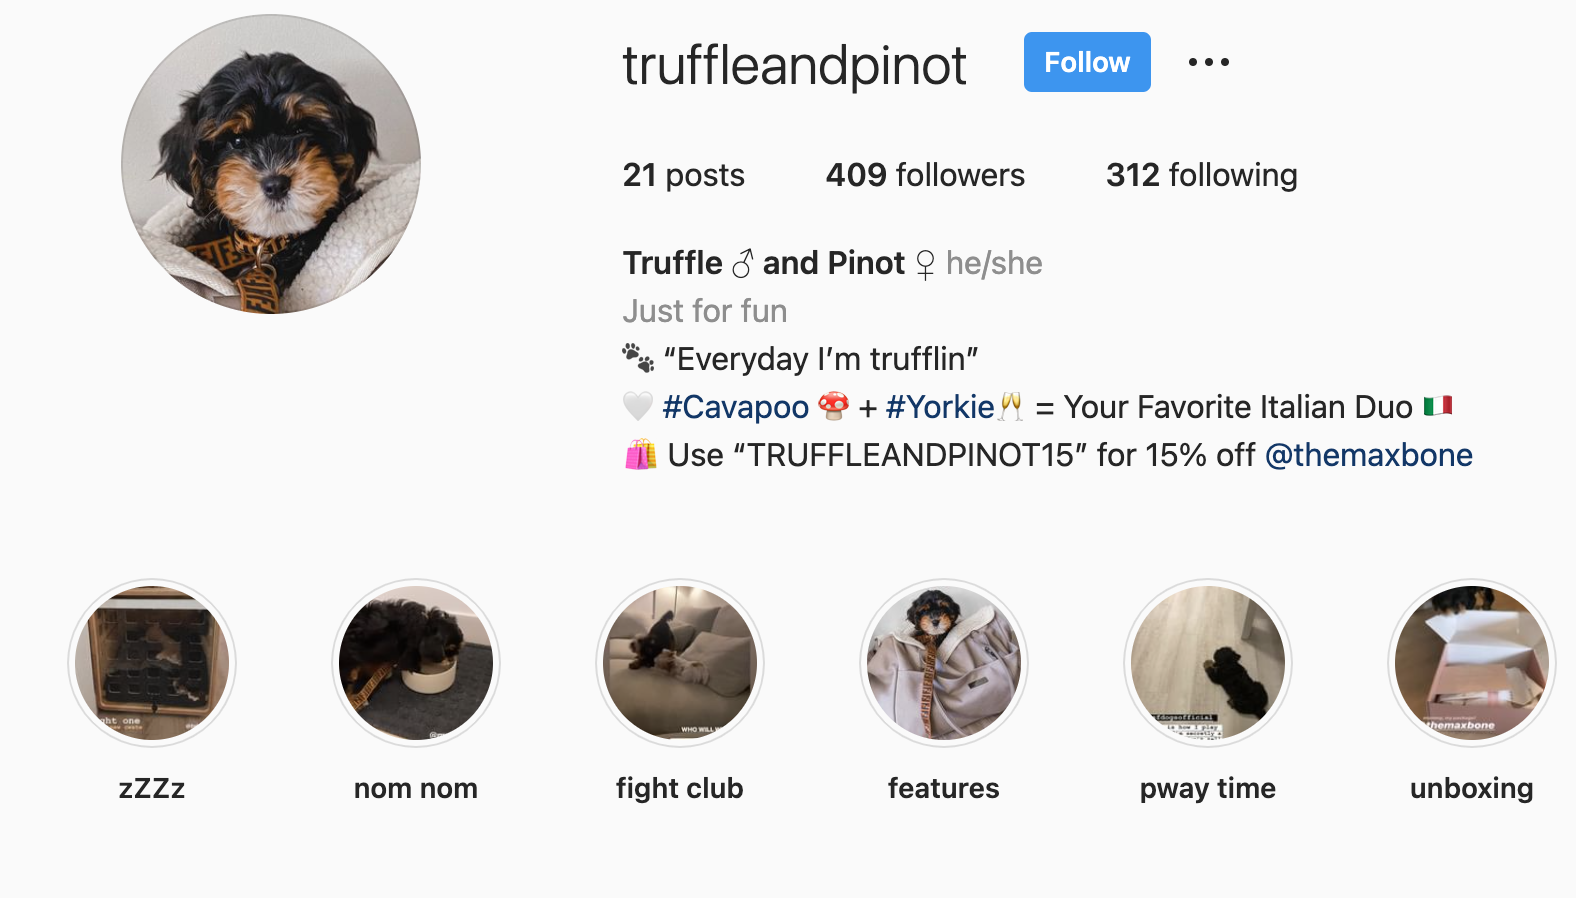
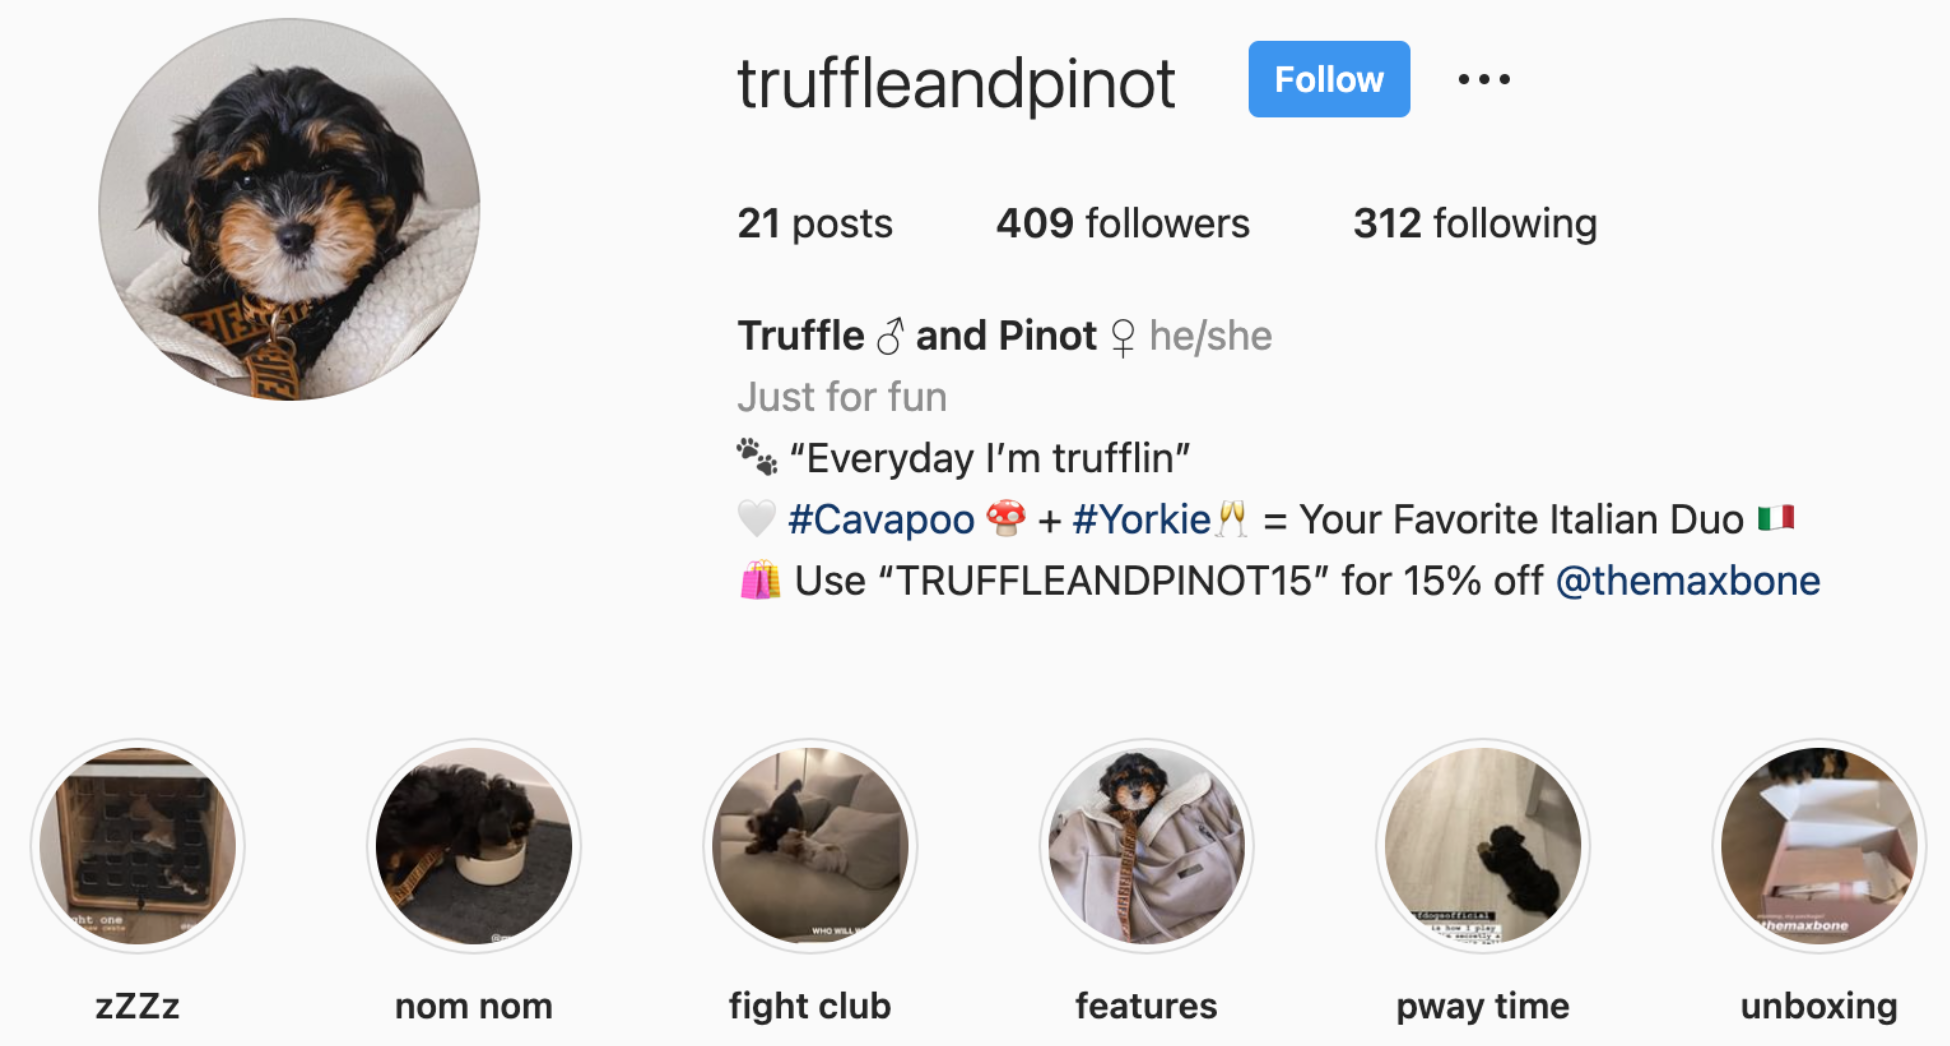
Adjusting media query settings for better mobile compatibility

diff --git a/src/app/bio/bio.component.css b/src/app/bio/bio.component.css
@@ -12,7 +12,7 @@ h1 {
   grid-template-rows: 20px 0px;
   grid-gap: 20px;
   margin-top: 40px;
-  margin-bottom:40px;
+  margin-bottom:35px;
   margin-left:25px;
   margin-right:55px;
   max-width: 95%;
@@ -140,7 +140,7 @@ h1:after,h1:before {
 
 /*Timeline Images: set different border colors and sizes for each*/
 .timeline img {
-  width: 230px;
+  width: 220px;
   height: 220px;
   border-radius: 50%;
   margin-bottom: 15px;
@@ -150,21 +150,17 @@ h1:after,h1:before {
 }
 .timeline #img2 {
   border: 4px solid hotpink;
-  width: 250px;
-  height: 260px;
+  height: 230px;
 }
 .timeline #img3 {
   border: 4px solid lightblue;
-  width: 210px;
-  height: 220px;
+  height: 230px;
 }
 .timeline #img4 {
   border: 4px solid #ffd670;
 }
 .timeline #img5 {
   border: 4px solid lightgreen;
-  width: 210px;
-  height: 220px;
 }
 
 .Yearly-timeline .timeline-content:hover{ text-decoration: none; }
@@ -227,7 +223,7 @@ h1:after,h1:before {
   background: lightgreen;
 }
 
-@media screen and (max-width:767px){
+@media screen and (max-width:700px){
   .Yearly-timeline .timeline{
     width: 100%;
     padding: 30px 0 0 30px;

diff --git a/src/app/social/social.component.html b/src/app/social/social.component.html
@@ -2,15 +2,13 @@
 <html>
 
 <div class="header">
-  <h2>Follow my Sister and me on
-    <a target="_blank" href="https://www.instagram.com/truffleandpinot/?igshid=YmMyMTA2M2Y=&fbclid=IwAR3P6vzQBvtjW0wJAFwjoh-6vBi18jZyCZZ0L8beD9BWSTUznMoJm35C6a8">Instagram</a>!
+  <h2>Follow me on
+    <a target="_blank" href="https://www.instagram.com/truffleandpinot/?igshid=YmMyMTA2M2Y=&fbclid=IwAR3P6vzQBvtjW0wJAFwjoh-6vBi18jZyCZZ0L8beD9BWSTUznMoJm35C6a8">Instagram!</a>
   </h2>
 </div>
 
-<div id = "pics" class="clearfix">
-  <div class="img-container">
-    <img id = "img1" src="assets/images/ig.png" width="600" height="320">
-  </div>
+<div>
+  <img id = "img1" src="assets/images/ig.png">
 </div>
 <html>
 

diff --git a/src/app/social/social.component.css b/src/app/social/social.component.css
@@ -1,0 +1,40 @@
+
+/* Header */
+h2 {
+  font-family:sans-serif;
+  font-weight:100;
+  font-weight: bold;
+  color: black;
+  grid-template-columns: 1fr auto 1fr;
+  grid-template-rows: 20px 0px;
+  grid-gap: 20px;
+  font-size: 30px;
+  margin-top: 30px;
+  margin-bottom: 30px;
+  margin-left:25px;
+  margin-right:55px;
+  max-width: 95%;
+}
+
+/* Image */
+#img1 {
+  margin-left:10px;
+  border: 2px solid lightgrey;
+  width: 740px;
+  height: 400px;
+  margin-left:20px;
+}
+
+/* Media settings */
+@media screen and (max-width:600px){
+  h2 {
+    font-size: 20px;
+  }
+  #img1 {
+    margin-left:10px;
+    border: 2px solid lightgrey;
+    width: 400px;
+    height: 200px;
+  }
+}
+

diff --git a/src/app/bio/bio.component.html b/src/app/bio/bio.component.html
@@ -2,7 +2,7 @@
 <html>
 
 <div>
-  <h1>Welcome to Truffle's World</h1>
+  <h1>Truffle's World</h1>
 </div>
 
 <body>
